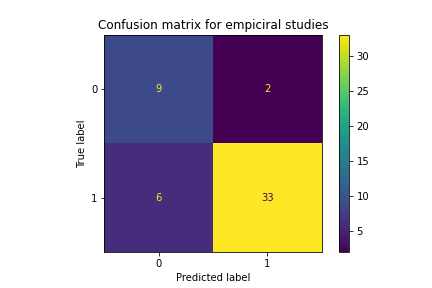
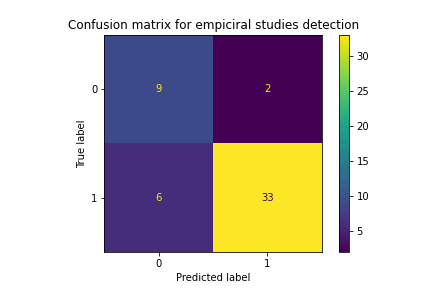
plot updated

Changed region(s): [[0.1505, 0.0625, 0.8426, 0.125]]

diff --git a/llm_systematic_review/llm_human_comparison.py b/llm_systematic_review/llm_human_comparison.py
@@ -20,13 +20,21 @@ for col in llm.columns:
         
 llm['final_decision'] = llm['final_decision'].map({'Include': 1, 'Exclude': 0})
 
-# Create logical_final_decision: 1 if all inclusion criteria are 1 and all exclusion criteria are 0
-ic_cols = [col for col in llm.columns if 'ic' in col and '.decision' in col]
-ec_cols = [col for col in llm.columns if 'ec' in col and '.decision' in col]
-llm['logical_final_decision'] = (llm[ic_cols].eq(1).all(axis=1) & llm[ec_cols].eq(0).all(axis=1)).astype(int)
 
+llm.columns = ['covidence_number',
+               'final_decision',
+               'llm_ic_1_population.reasoning',
+               'llm_ic_1_population.decision',
+               'llm_ic_2_intervention.reasoning',
+               'llm_ic_2_intervention.decision',
+               'llm_ic_3_technology.reasoning',
+               'llm_ic_3_technology.decision',
+               'llm_ic_4_study_type.reasoning',
+               'llm_ic_4_study_type.decision',
+               'llm_ec_1_domain.reasoning',
+               'llm_ec_1_domain.decision']
 
-cm = confusion_matrix(human['human_final_decision'], llm['llm_final_decision'])
+cm = confusion_matrix(human['human_final_decision'], llm['final_decision'])
 fig, ax = plt.subplots()
 disp = ConfusionMatrixDisplay(confusion_matrix=cm)
 disp.plot(ax=ax)
@@ -34,7 +42,7 @@ ax.set_title("Confusion matrix for the final inclusion decision")
 plt.savefig('conf_matrices/final_decision.png')
 plt.show()
 
-cm_hp = confusion_matrix(human['human_human_participants'], llm['llm_human_participants'])
+cm_hp = confusion_matrix(human['human_human_participants'], llm['llm_ic_1_population.decision'])
 fig, ax = plt.subplots()
 disp = ConfusionMatrixDisplay(confusion_matrix=cm_hp)
 disp.plot(ax=ax)
@@ -42,7 +50,7 @@ ax.set_title("Confusion matrix for human participants' presence in the study")
 plt.savefig('conf_matrices/human_participants.png')
 plt.show()
 
-cm_ip = confusion_matrix(human['human_involves_persuasion'], llm['llm_involves_persuasion'])
+cm_ip = confusion_matrix(human['human_involves_persuasion'], llm['llm_ic_2_intervention.decision'])
 fig, ax = plt.subplots()
 disp = ConfusionMatrixDisplay(confusion_matrix=cm_ip)
 disp.plot(ax=ax)
@@ -50,7 +58,7 @@ ax.set_title("Confusion matrix for persuasion presence in the study")
 plt.savefig('conf_matrices/persuasion.png')
 plt.show()
 
-cm_aip = confusion_matrix(human['human_persuasion_is_ai'], llm['llm_persuasion_is_ai'])
+cm_aip = confusion_matrix(human['human_persuasion_is_ai'], llm['llm_ic_3_technology.decision'])
 fig, ax = plt.subplots()
 disp = ConfusionMatrixDisplay(confusion_matrix=cm_aip)
 disp.plot(ax=ax)
@@ -58,7 +66,15 @@ ax.set_title("Confusion matrix for AI persuasion detection")
 plt.savefig('conf_matrices/ai_persuasion.png')
 plt.show()
 
-cm_mar = confusion_matrix(human['human_is_marketing'], llm['llm_is_marketing'])
+cm_emp = confusion_matrix(~(human['human_is_theoretical']), llm['llm_ic_4_study_type.decision'])
+fig, ax = plt.subplots()
+disp = ConfusionMatrixDisplay(confusion_matrix=cm_emp)
+disp.plot(ax=ax)
+ax.set_title("Confusion matrix for empiciral studies detection")
+plt.savefig('conf_matrices/empirical_studies.png')
+plt.show()
+
+cm_mar = confusion_matrix(human['human_is_marketing'], llm['llm_ec_1_domain.decision'])
 fig, ax = plt.subplots()
 disp = ConfusionMatrixDisplay(confusion_matrix=cm_mar)
 disp.plot(ax=ax)
